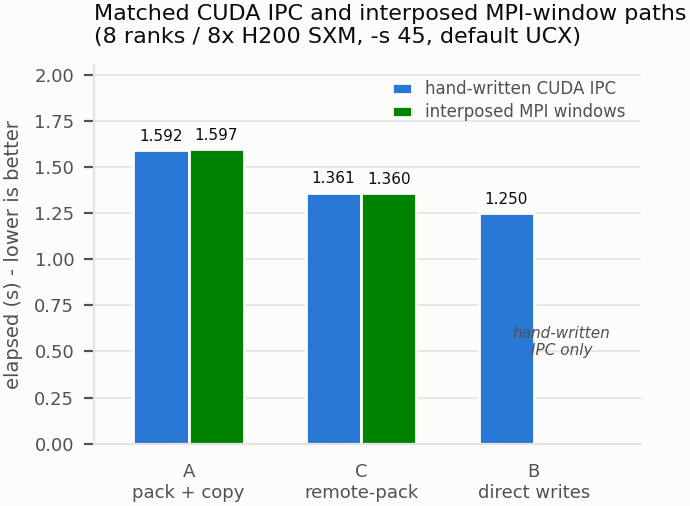
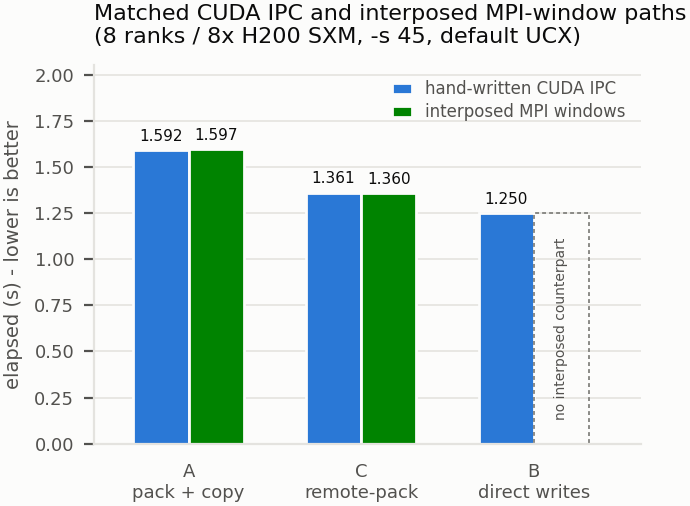
Plots: boxed bottom-right transpose legends, anchor the mode-B annotation
Transpose legends move from a frameless upper-left overlay to an opaque
white box in the bottom-right. The curves rise left-to-right, so that
corner is the emptiest region; the box is opaque rather than transparent
because the flat Staged MPI series runs along the bottom of both IPC panels
and a see-through legend would sit ambiguously on top of it. Checked on all
three panels: nothing is occluded, including the seven-series two-column
legend on the NVSHMEM comparison.

The mode-B annotation in lulesh_modes_sxm read as a stray caption floating
in white space, which is fair -- it was a bare text label with nothing
anchoring it to what it described. The absent interposed bar is now drawn
as a dashed outline at the position that bar would occupy, labelled "no
interposed counterpart" along its length. A lone bar in a paired chart
otherwise reads as lost data rather than as a result.

Figures only; no data, series, or values changed.

Changed region(s): [[0.7304, 0.4743, 0.8826, 0.83]]

diff --git a/plots/make_lulesh_plots.py b/plots/make_lulesh_plots.py
@@ -220,8 +220,14 @@ for bar, t in zip(b1, ipc_times):
 for bar, t in zip(b2, wrap_times):
     ax.text(bar.get_x() + bar.get_width()/2, t + 0.05, f"{t:.3f}",
             ha="center", fontsize=5.5, color=INK)
-ax.text(2 + w/2, 0.55, "hand-written\nIPC only", ha="center",
-        va="center", fontsize=5.5, color=INK2, style="italic")
+# Mode B has no interposed counterpart (Section IV-F: Thrust owns the field
+# allocations, and a window must own its storage to be exportable). Draw the
+# absent bar as a dashed outline and label it, rather than leaving a floating
+# caption in white space -- otherwise the single bar reads as lost data.
+ax.bar(2 + w/2, DATA["direct"]["elapsed"], width=w, facecolor="none",
+       edgecolor=GREY, linewidth=0.7, linestyle=(0, (2, 1.6)), zorder=1)
+ax.text(2 + w/2, DATA["direct"]["elapsed"] / 2, "no interposed counterpart",
+        ha="center", va="center", rotation=90, fontsize=5, color=INK2)
 ax.set_xlim(-0.55, 2.62)
 
 ax.set_xticks(list(x))

diff --git a/plots/make_transpose_plots.py b/plots/make_transpose_plots.py
@@ -141,8 +141,16 @@ def panel(bucket, spec, title, path, ncol=1):
     ax.set_axisbelow(True)
     for side in ("top", "right"):
         ax.spines[side].set_visible(False)
-    ax.legend(loc="upper left", frameon=False, ncol=ncol,
-              handlelength=1.6, borderaxespad=0.2, labelspacing=0.25)
+    # Bottom-right, in an opaque white box. The box matters: the curves rise
+    # left-to-right, so the corner is the emptiest region, but the flat
+    # Staged MPI line runs along the bottom of the IPC panels and a
+    # transparent legend would sit ambiguously on top of it.
+    leg = ax.legend(loc="lower right", ncol=ncol, frameon=True,
+                    facecolor="white", edgecolor=GRID, framealpha=1.0,
+                    handlelength=1.6, borderaxespad=0.4, labelspacing=0.22,
+                    borderpad=0.4, columnspacing=1.0)
+    leg.get_frame().set_linewidth(0.5)
+    leg.set_zorder(5)
     fig.tight_layout()
     save(fig, path)
 
